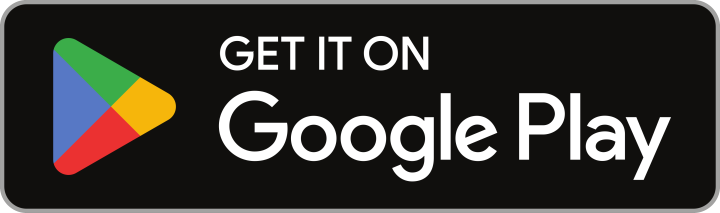
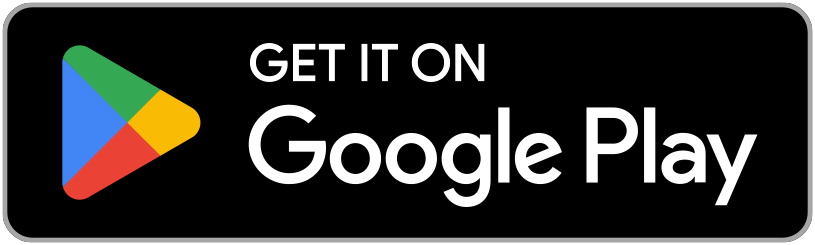
Сайт: нові офіційні значки Google Play і перемикач в адмінці — публічний застосунок чи попередня реєстрація
Claude-Session: https://claude.ai/code/session_01C5vEKtvo1ubKVED9Jp1qGn

diff --git a/resources/js/pages/admin/settings.tsx b/resources/js/pages/admin/settings.tsx
@@ -15,6 +15,8 @@ import { Button } from '@/components/ui/button';
 import { Input } from '@/components/ui/input';
 import { Label } from '@/components/ui/label';
 import { Spinner } from '@/components/ui/spinner';
+import { PLAY_BADGES } from '@/components/gc/play-store';
+import { cn } from '@/lib/utils';
 
 type Settings = {
     site_name: string;
@@ -22,6 +24,7 @@ type Settings = {
     seo_description: string;
     play_store_enabled: boolean;
     play_store_url: string;
+    play_store_badge: 'get' | 'preregister';
     registration_open: boolean;
     email_verification: boolean;
     max_post_length: number;
@@ -87,6 +90,8 @@ export default function AdminSettings({ settings }: { settings: Settings }) {
         seo_description: settings.seo_description ?? '',
         play_store_enabled: Boolean(settings.play_store_enabled),
         play_store_url: settings.play_store_url ?? '',
+        play_store_badge:
+            settings.play_store_badge === 'preregister' ? 'preregister' : 'get',
         maintenance_message: settings.maintenance_message ?? '',
     });
     const { data, setData, errors, processing } = form;
@@ -192,6 +197,42 @@ export default function AdminSettings({ settings }: { settings: Settings }) {
                             placeholder="https://play.google.com/store/apps/details?id=…"
                         />
                         <InputError message={errors.play_store_url} />
+                    </div>
+                    <div className="grid gap-2">
+                        <Label>Тип застосунку</Label>
+                        <div className="grid gap-3 sm:grid-cols-2">
+                            {PLAY_BADGES.map((badge) => (
+                                <button
+                                    key={badge.value}
+                                    type="button"
+                                    aria-pressed={
+                                        data.play_store_badge === badge.value
+                                    }
+                                    onClick={() =>
+                                        setData('play_store_badge', badge.value)
+                                    }
+                                    className={cn(
+                                        'grid gap-2 rounded-2xl border p-3 text-left transition',
+                                        data.play_store_badge === badge.value
+                                            ? 'border-primary/70 bg-primary/10'
+                                            : 'border-white/10 hover:border-white/25',
+                                    )}
+                                >
+                                    <img
+                                        src={badge.src}
+                                        alt={badge.title}
+                                        className="h-11 w-auto self-start"
+                                    />
+                                    <span className="text-sm font-medium text-white/85">
+                                        {badge.title}
+                                    </span>
+                                    <span className="text-xs text-white/50">
+                                        {badge.text}
+                                    </span>
+                                </button>
+                            ))}
+                        </div>
+                        <InputError message={errors.play_store_badge} />
                     </div>
                 </Section>
 

diff --git a/resources/js/components/gc/play-store.tsx b/resources/js/components/gc/play-store.tsx
@@ -1,8 +1,26 @@
 import { usePage } from '@inertiajs/react';
 import { cn } from '@/lib/utils';
 
+/** Офіційні значки Google Play (public/images), обрізані до краю значка. */
+export const PLAY_BADGES = [
+    {
+        value: 'get',
+        src: '/images/google-play-badge.png',
+        alt: 'Get it on Google Play',
+        title: 'Публічний',
+        text: 'Застосунок опубліковано — значок «Get it on Google Play».',
+    },
+    {
+        value: 'preregister',
+        src: '/images/google-play-preregister.png',
+        alt: 'Pre-register on Google Play',
+        title: 'Попередня реєстрація',
+        text: 'Застосунок ще не вийшов — значок «Pre-register on Google Play».',
+    },
+] as const;
+
 /**
- * Офіційний значок «Get it on Google Play» (public/images/google-play-badge.png).
+ * Офіційний значок Google Play, обраний в адмінці.
  * За правилами Google значок не змінюємо: лише масштабуємо висотою й лишаємо вільне місце довкола.
  */
 export function PlayStoreLink({
@@ -18,22 +36,25 @@ export function PlayStoreLink({
         return null;
     }
 
+    const badge =
+        PLAY_BADGES.find((b) => b.value === store.badge) ?? PLAY_BADGES[0];
+
     return (
         <a
             href={store.url}
             target="_blank"
             rel="noopener noreferrer"
-            aria-label="Завантажити GameCon з Google Play"
+            aria-label={badge.alt}
             className={cn(
                 'inline-flex shrink-0 items-center justify-center rounded-[10px] transition hover:opacity-85 focus-visible:ring-2 focus-visible:ring-white/40 focus-visible:outline-none',
                 className,
             )}
         >
             <img
-                src="/images/google-play-badge.png"
-                alt="Get it on Google Play"
-                width={720}
-                height={213}
+                src={badge.src}
+                alt={badge.alt}
+                width={815}
+                height={245}
                 loading="lazy"
                 decoding="async"
                 className={cn('w-auto', compact ? 'h-11' : 'h-13')}

diff --git a/resources/js/types/global.d.ts b/resources/js/types/global.d.ts
@@ -17,7 +17,10 @@ declare module '@inertiajs/core' {
                 name: string;
                 tagline: string | null;
                 description: string;
-                play_store: { url: string } | null;
+                play_store: {
+                    url: string;
+                    badge: 'get' | 'preregister';
+                } | null;
                 registration_open: boolean;
                 max_attachments: number;
                 max_message_file_mb: number;

diff --git a/app/Support/Settings/SiteSettings.php b/app/Support/Settings/SiteSettings.php
@@ -18,6 +18,7 @@ class SiteSettings
         'seo_description' => 'GameCon — соціальна мережа для геймерів і кіноманів: друзі, спільноти, музика, кіно, сімʼї та ігрові сервери.',
         'play_store_enabled' => false,
         'play_store_url' => null,
+        'play_store_badge' => 'get',
         'registration_open' => true,
         'email_verification' => false,
         'max_post_length' => 5000,
@@ -118,6 +119,12 @@ class SiteSettings
         $url = $this->get('play_store_url');
 
         return is_string($url) && preg_match('#\Ahttps?://#i', $url) === 1 ? $url : null;
+    }
+
+    /** Офіційний значок Google Play: «Get it on» (застосунок опубліковано) або «Pre-register» (попередня реєстрація). */
+    public function playStoreBadge(): string
+    {
+        return $this->get('play_store_badge') === 'preregister' ? 'preregister' : 'get';
     }
 
     /**

diff --git a/tests/Feature/AdminTest.php b/tests/Feature/AdminTest.php
@@ -169,7 +169,17 @@ class AdminTest extends TestCase
 
         $this->actingAs($admin)->get(route('feed'))
             ->assertInertia(fn (Assert $page) => $page
-                ->where('site.play_store.url', $payload['play_store_url']));
+                ->where('site.play_store.url', $payload['play_store_url'])
+                ->where('site.play_store.badge', 'get'));
+
+        $this->actingAs($admin)->put(route('admin.settings.update'), [...$payload, 'play_store_badge' => 'beta'])
+            ->assertSessionHasErrors('play_store_badge');
+
+        $this->actingAs($admin)->put(route('admin.settings.update'), [...$payload, 'play_store_badge' => 'preregister'])
+            ->assertSessionHasNoErrors();
+
+        $this->actingAs($admin)->get(route('feed'))
+            ->assertInertia(fn (Assert $page) => $page->where('site.play_store.badge', 'preregister'));
     }
 
     public function test_email_verification_setting_gates_the_site(): void

diff --git a/app/Http/Middleware/HandleInertiaRequests.php b/app/Http/Middleware/HandleInertiaRequests.php
@@ -58,7 +58,7 @@ class HandleInertiaRequests extends Middleware
                 'name' => $this->settings->get('site_name'),
                 'tagline' => $this->settings->get('tagline'),
                 'description' => $this->settings->seoDescription(),
-                'play_store' => transform($this->settings->playStoreUrl(), fn (string $url) => ['url' => $url]),
+                'play_store' => transform($this->settings->playStoreUrl(), fn (string $url) => ['url' => $url, 'badge' => $this->settings->playStoreBadge()]),
                 'registration_open' => (bool) $this->settings->get('registration_open'),
                 'max_attachments' => (int) $this->settings->get('max_attachments'),
                 'max_message_file_mb' => (int) $this->settings->get('max_message_file_mb'),

diff --git a/app/Http/Controllers/Admin/SettingsController.php b/app/Http/Controllers/Admin/SettingsController.php
@@ -28,6 +28,7 @@ class SettingsController extends Controller
             'seo_description' => ['nullable', 'string', 'max:300'],
             'play_store_enabled' => ['boolean'],
             'play_store_url' => ['nullable', 'string', 'max:300', 'url:http,https'],
+            'play_store_badge' => ['nullable', 'in:get,preregister'],
             'registration_open' => ['boolean'],
             'email_verification' => ['boolean'],
             'max_post_length' => ['required', 'integer', 'min:100', 'max:50000'],
